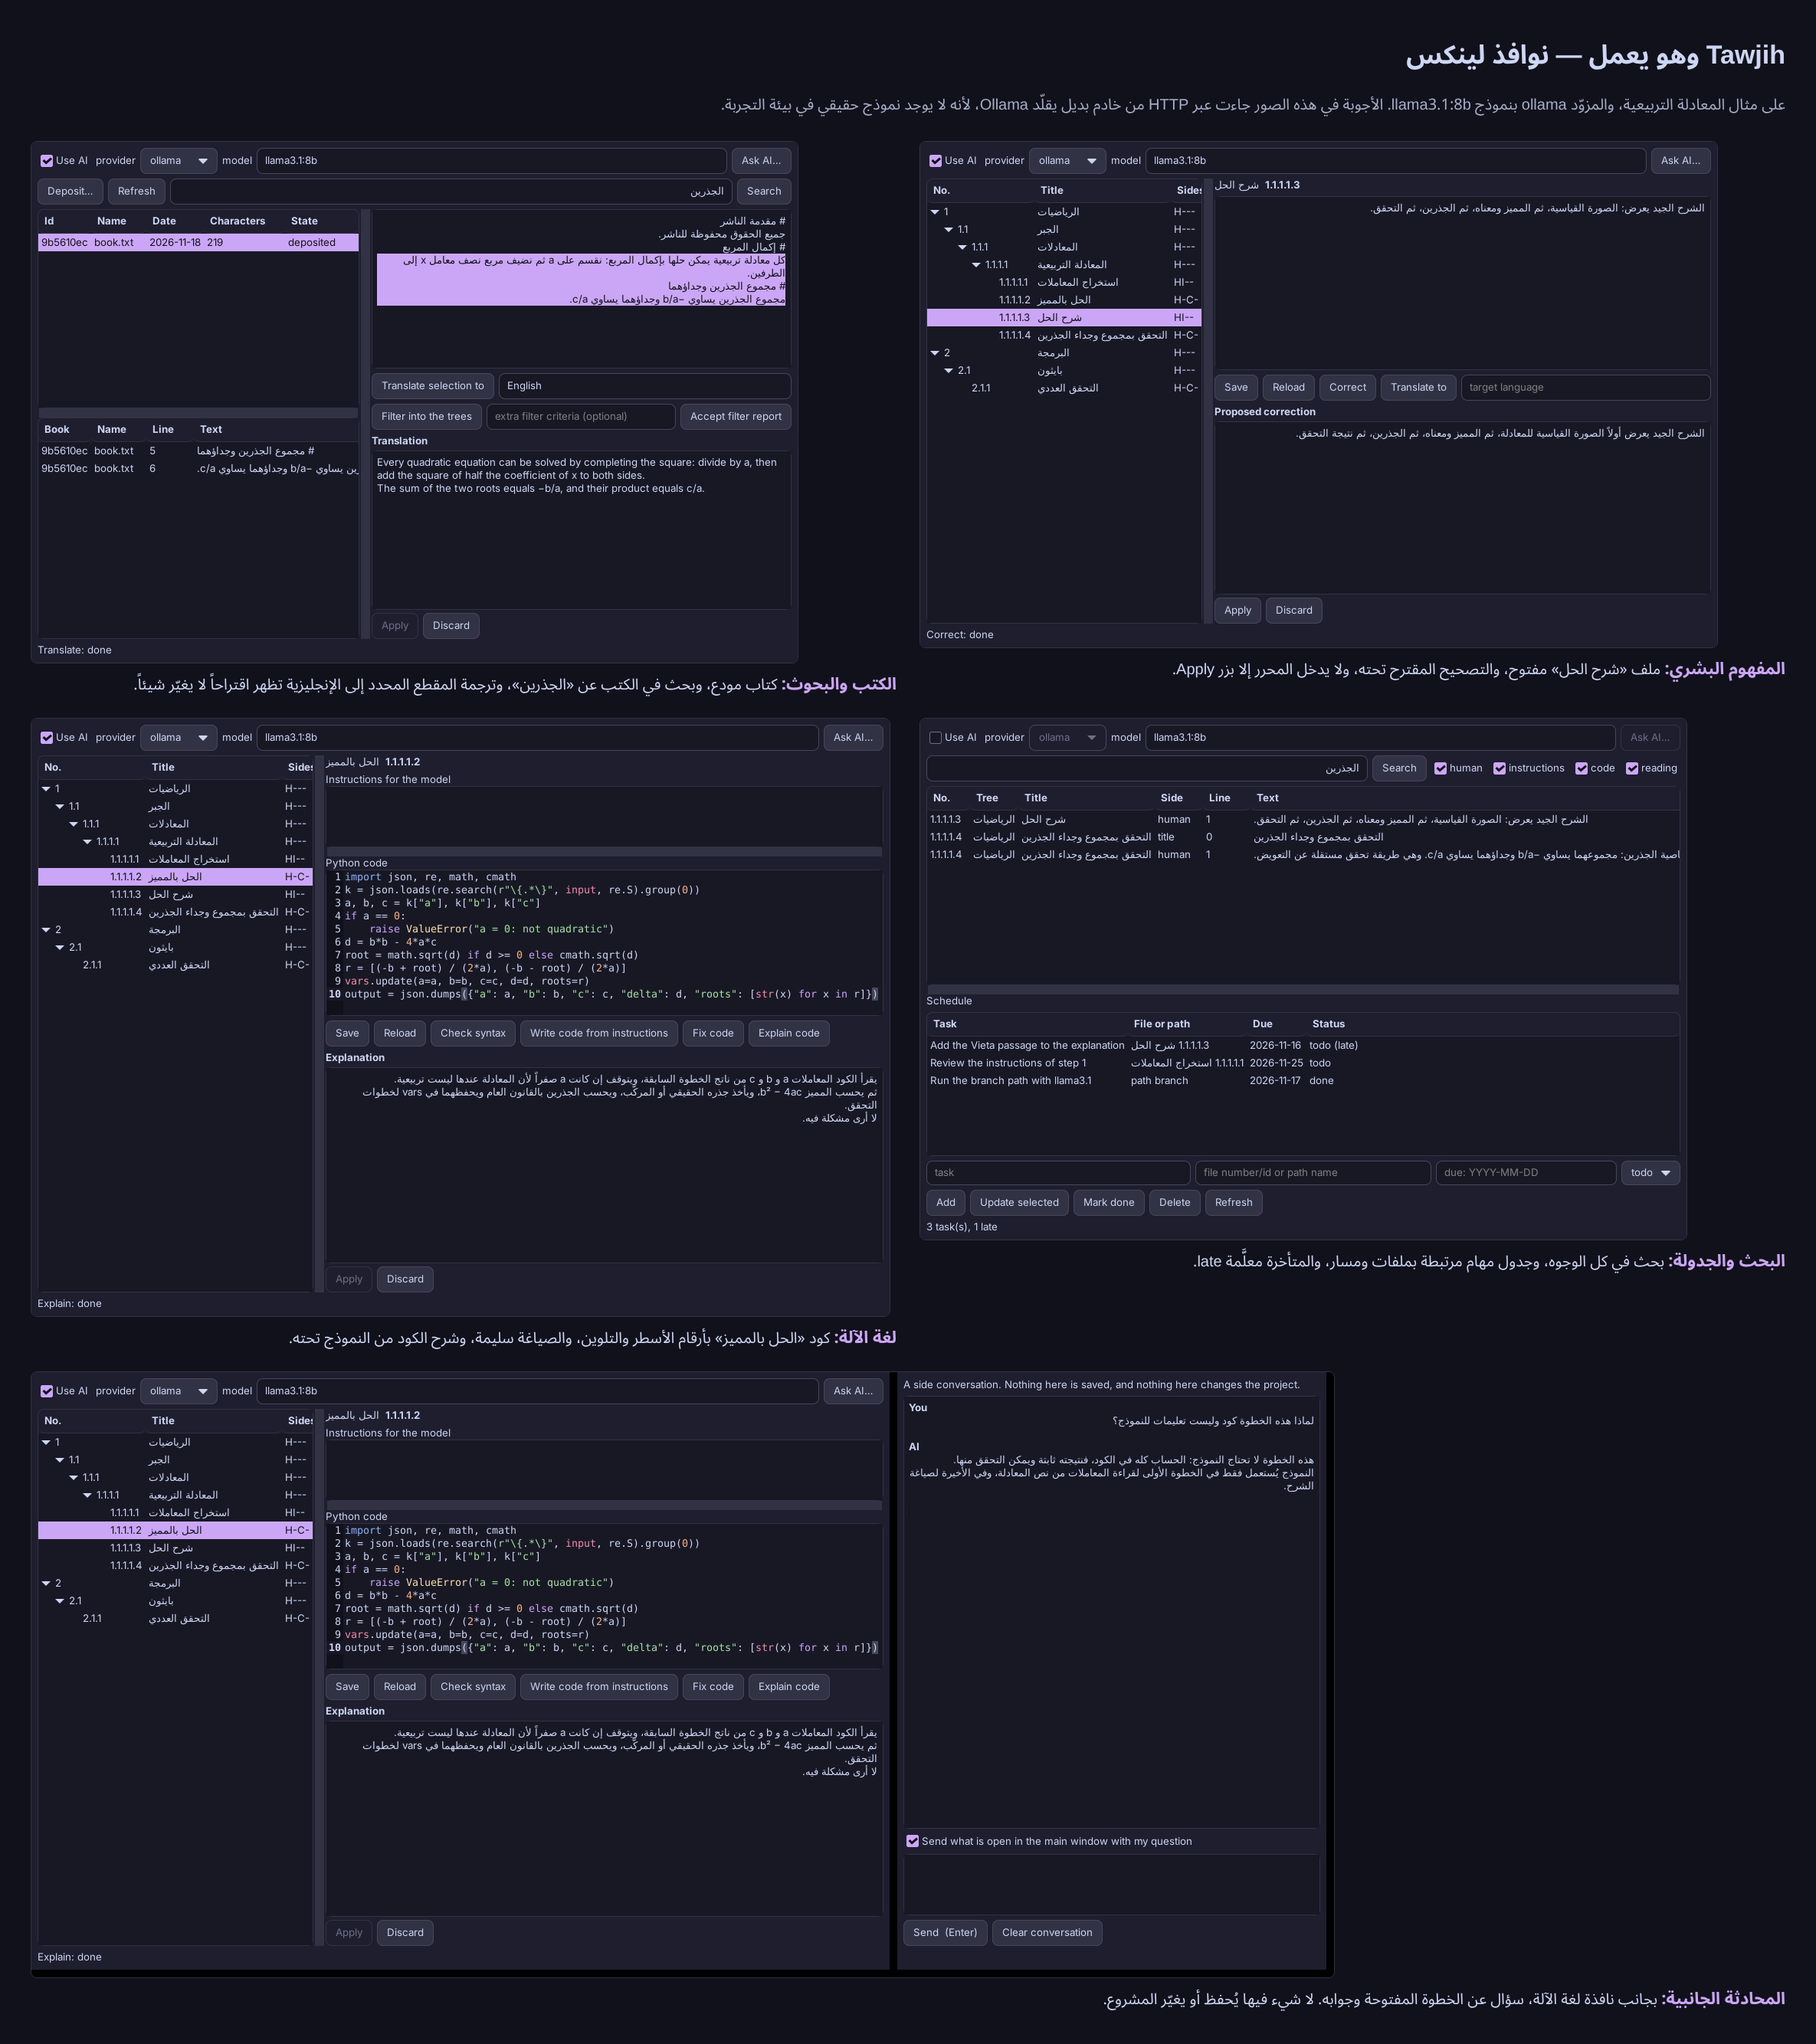
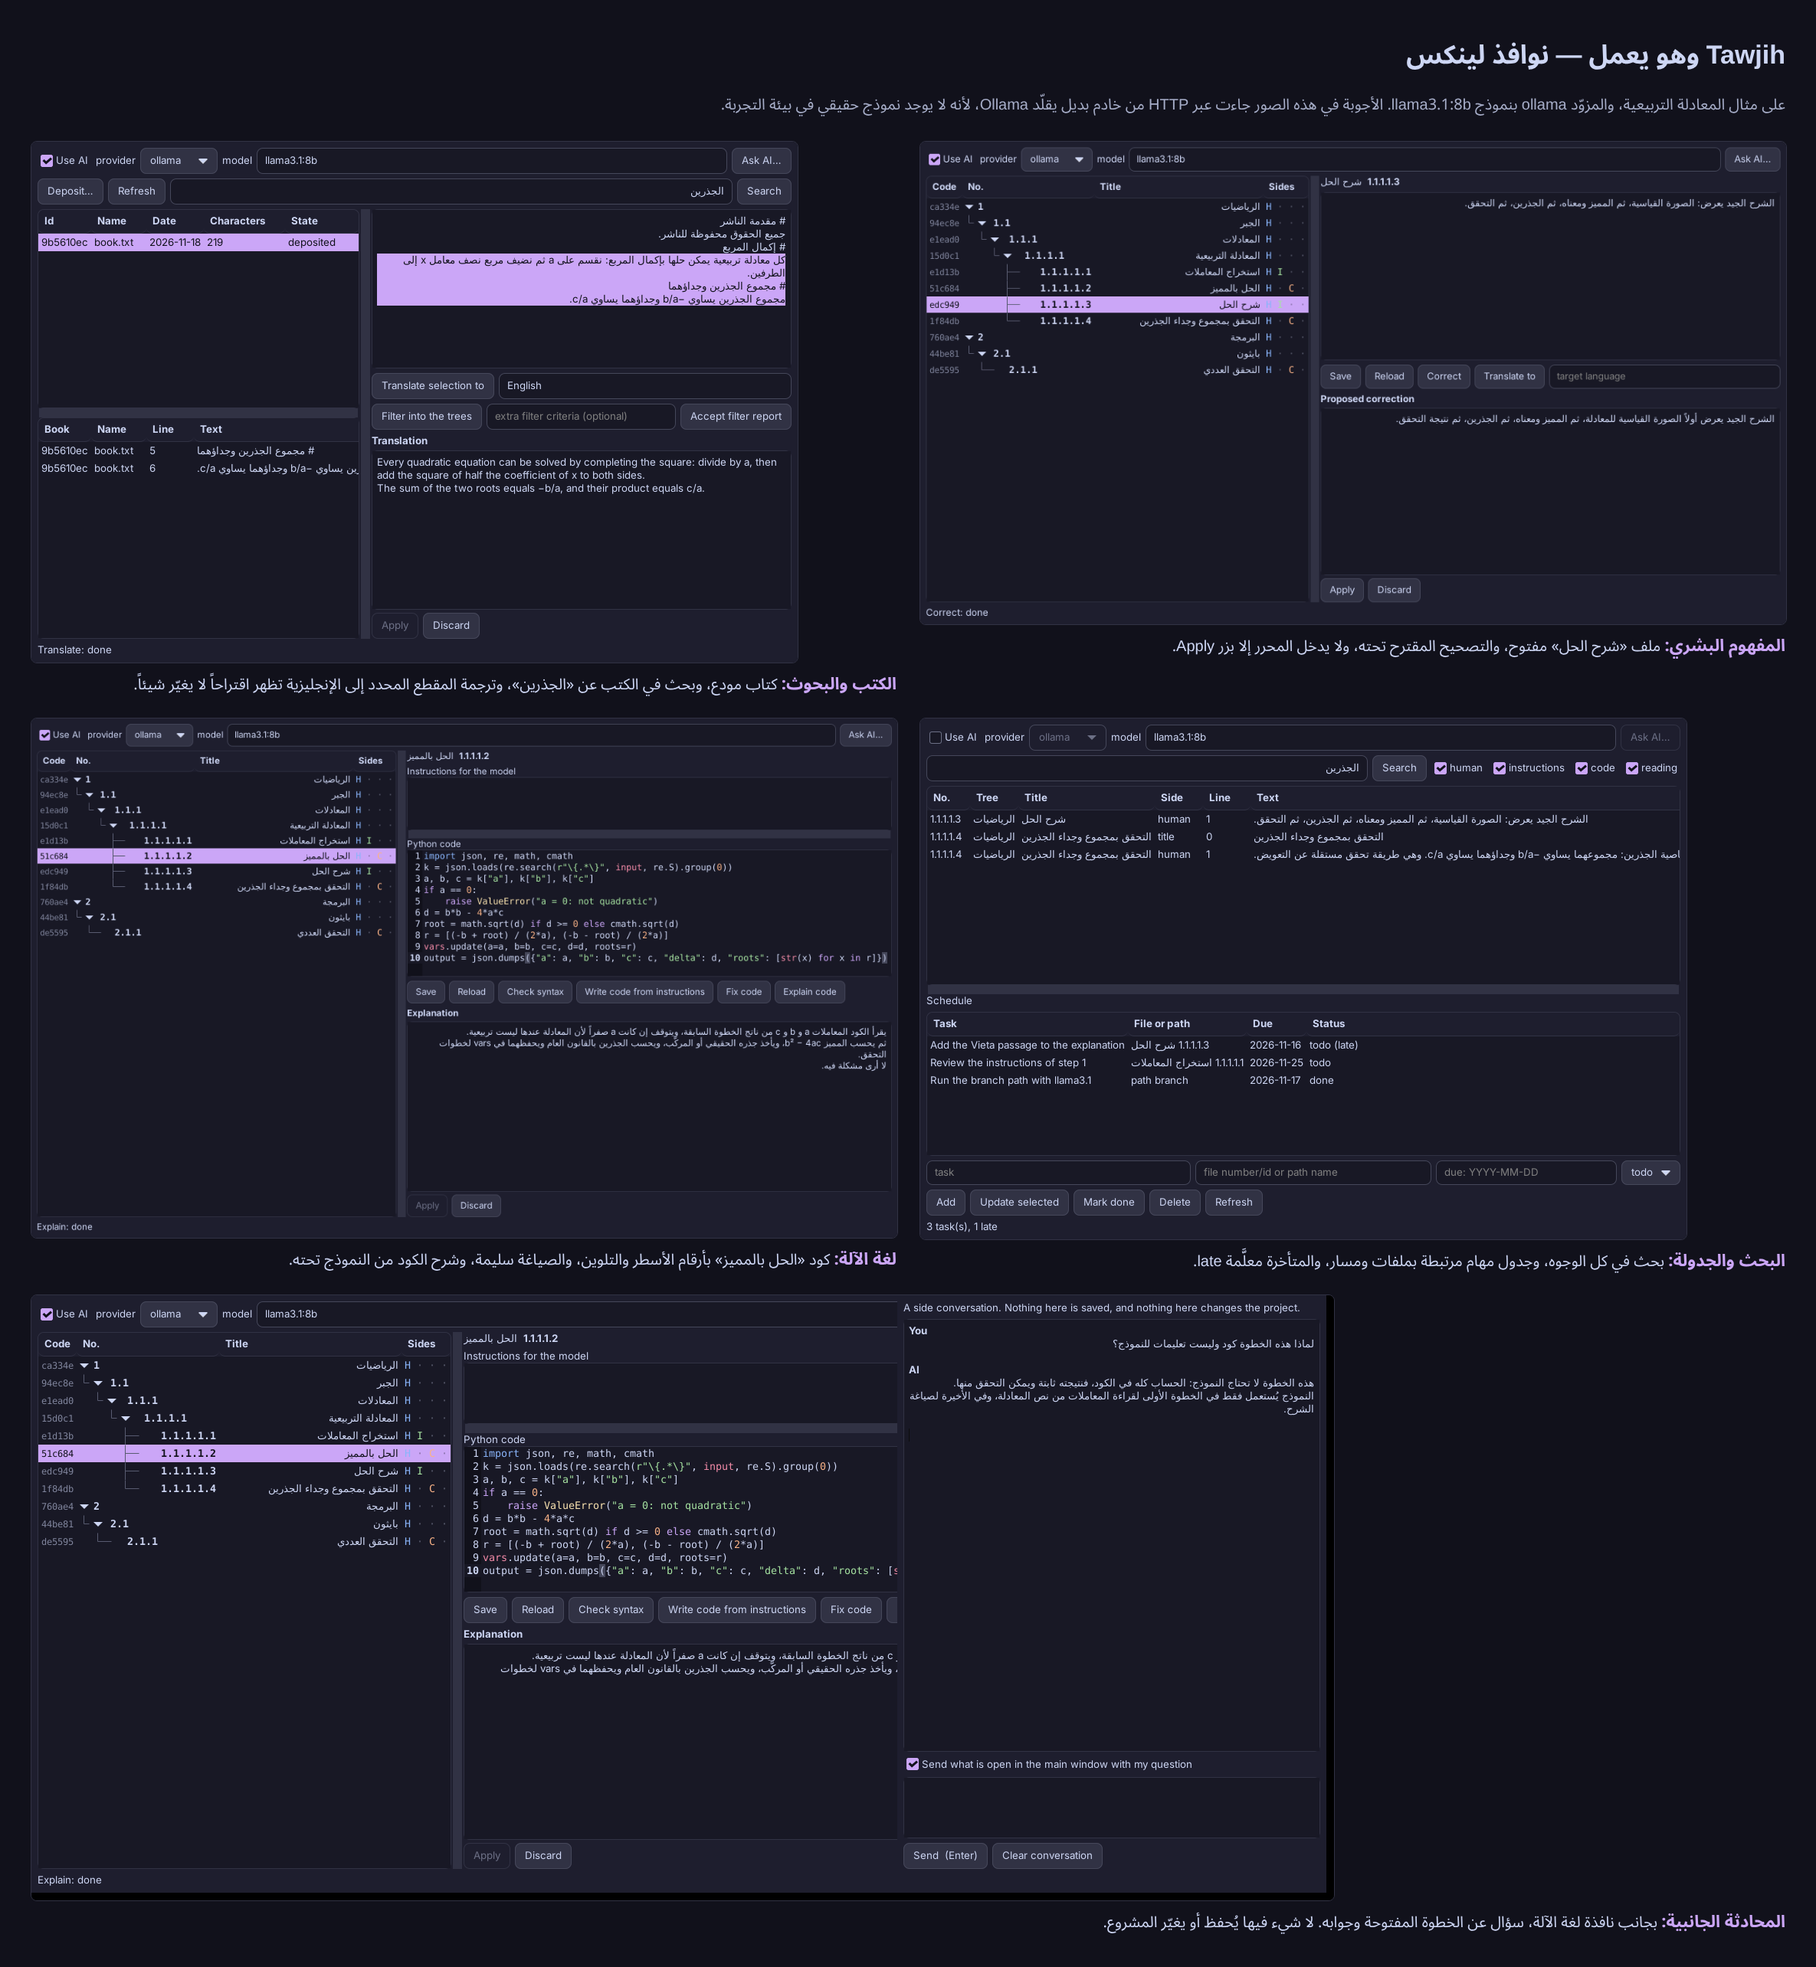
Linux windows: the file list as Code, No. on tree lines, Title, Sides
Replaces the old No./Title/Sides list in the human and machine-language
windows. GTK draws the tree lines itself and colours each side letter; Tk
draws ├─ └─ │ before the number, padded to the font's widths. The windows
and the list are wider so nothing is cut; the README images are retaken.

Claude-Session: https://claude.ai/code/session_01GU5AfFFLJzEcjQ6jTvENeJ

diff --git a/linux/desk_gtk.py b/linux/desk_gtk.py
@@ -21,6 +21,7 @@ from desk_core import (AI_BACKENDS, CHAT_CONTEXT_LIMIT, SIDES,  # noqa: E402
 
 WAITING = "Waiting for another AI request of this program to finish …"
 SCHEME = None          # the code editor's colours, set by apply_theme
+PAL = None             # the theme's colours, set by apply_theme
 
 CSS = """
 window, dialog, .background { background-color: @base; color: @text; }
@@ -76,15 +77,18 @@ menu, .menu, popover, .popover { background-color: @mantle; color: @text;
 menuitem:hover { background-color: @accent; color: @on_accent; }
 tooltip, tooltip * { background-color: @crust; color: @text; }
 progressbar progress { background-color: @accent; }
+treeview.view.files { -GtkTreeView-tree-line-width: 1;
+  -GtkTreeView-tree-line-pattern: ""; border-color: @surface2; }
 """
 
 
 def apply_theme(theme):
     """Dark or light colours for every window, or the desktop's own."""
-    global SCHEME
+    global SCHEME, PAL
     pal = palette(theme)
     if pal is None:
         return
+    PAL = pal
     Gtk.Settings.get_default().set_property(
         "gtk-application-prefer-dark-theme", theme == "dark")
     css = "".join("@define-color %s %s;\n" % kv for kv in pal.items()) + CSS
@@ -512,16 +516,47 @@ class Proposal(Gtk.Box):
 
 
 class FileList(Gtk.TreeView):
-    """The trees of the project; reports the selected file id."""
+    """The trees of the project: each file's code (its stable id), its
+    number on lines joining it to its parent, its title and its sides;
+    reports the selected file id."""
+
+    SIDE_COLORS = {"H": "blue", "I": "green", "C": "peach", "R": "yellow"}
 
     def __init__(self, on_select):
-        self.store = Gtk.TreeStore(str, str, str, str)
+        self.store = Gtk.TreeStore(str, str, str, str, str)
         super().__init__(model=self.store)
-        for i, title in enumerate(("No.", "Title", "Sides")):
-            self.append_column(Gtk.TreeViewColumn(
-                title, Gtk.CellRendererText(), text=i))
+        self.get_style_context().add_class("files")
+        self.set_enable_tree_lines(True)
+        self.set_level_indentation(4)
+        dim = PAL["overlay1"] if PAL else "gray"
+        code = Gtk.CellRendererText(family="Monospace", foreground=dim,
+                                    scale=0.9)
+        num = Gtk.CellRendererText(family="Monospace", weight=600)
+        title = Gtk.CellRendererText(xalign=1.0)
+        sides = Gtk.CellRendererText(family="Monospace")
+        cols = [Gtk.TreeViewColumn("Code", code, text=0),
+                Gtk.TreeViewColumn("No.", num, text=1),
+                Gtk.TreeViewColumn("Title", title, text=2),
+                Gtk.TreeViewColumn("Sides", sides, markup=3)]
+        cols[2].set_expand(True)
+        for c in cols:
+            c.set_resizable(True)
+            self.append_column(c)
+        self.set_expander_column(cols[1])
         self._filling, self._on_select = False, on_select
         self.get_selection().connect("changed", self._changed)
+
+    def _sides(self, flags):
+        out = []
+        for c in flags:
+            if c == "-":
+                out.append('<span alpha="35%">·</span>')
+            elif PAL:
+                out.append('<span foreground="%s">%s</span>'
+                           % (PAL[self.SIDE_COLORS[c]], c))
+            else:
+                out.append(c)
+        return " ".join(out)
 
     def fill(self, rows, keep=None):
         self._filling = True
@@ -530,7 +565,8 @@ class FileList(Gtk.TreeView):
         for r in rows:
             iters[r["id"]] = self.store.append(
                 iters.get(r["parent"]),
-                [r["number"], r["title"], r["flags"], r["id"]])
+                [r["id"], r["number"], r["title"], self._sides(r["flags"]),
+                 r["id"]])
         self.expand_all()
         if keep in iters:
             self.get_selection().select_iter(iters[keep])
@@ -538,7 +574,7 @@ class FileList(Gtk.TreeView):
 
     def select(self, nid):
         def visit(model, path, it):
-            if model[it][3] == nid:
+            if model[it][4] == nid:
                 self.get_selection().select_iter(it)
                 return True
             return False
@@ -551,7 +587,7 @@ class FileList(Gtk.TreeView):
             return
         model, it = selection.get_selected()
         if it is not None:
-            self._on_select(model[it][3])
+            self._on_select(model[it][4])
 
 
 # ------------------------------------------------------- window 1: library
@@ -719,7 +755,7 @@ class EditorWindow(DeskWindow):
         paned = Gtk.Paned()
         paned.pack1(scrolled(self.files), False, False)
         paned.pack2(self.right, True, False)
-        paned.set_position(360)
+        paned.set_position(540)
         self.box.pack_start(paned, True, True, 0)
         self.refresh()
 
@@ -800,7 +836,7 @@ class EditorWindow(DeskWindow):
 
 
 class HumanWindow(EditorWindow):
-    TITLE, SIZE, EDIT_SIDES = "Human concept", (1040, 660), ("human",)
+    TITLE, SIZE, EDIT_SIDES = "Human concept", (1220, 680), ("human",)
 
     def build_editors(self):
         self.editors["human"] = text_view()
@@ -829,7 +865,7 @@ class HumanWindow(EditorWindow):
 
 
 class CodeWindow(EditorWindow):
-    TITLE, SIZE = "Machine language", (1120, 780)
+    TITLE, SIZE = "Machine language", (1300, 780)
     EDIT_SIDES = ("instructions", "code")
 
     def build_editors(self):

diff --git a/linux/desk_tk.py b/linux/desk_tk.py
@@ -542,16 +542,22 @@ class Proposal(ttk.Frame):
 
 
 class FileList(ttk.Frame):
+    """The trees of the project: each file's code (its stable id), its
+    number on lines joining it to its parent, its title and its sides."""
+
     def __init__(self, parent, on_select):
         super().__init__(parent)
-        self.tree = ttk.Treeview(self, columns=("title", "sides"),
-                                 selectmode="browse", height=12)
-        self.tree.heading("#0", text="No.")
-        self.tree.heading("title", text="Title")
-        self.tree.heading("sides", text="Sides")
-        self.tree.column("#0", width=120)
-        self.tree.column("title", width=170)
-        self.tree.column("sides", width=50)
+        cols = ("code", "no", "title", "sides")
+        self.tree = ttk.Treeview(self, columns=cols, show="headings",
+                                 selectmode="browse", height=12,
+                                 style="Files.Treeview")
+        for c, head, width, anchor in (("code", "Code", 70, "w"),
+                                       ("no", "No.", 180, "w"),
+                                       ("title", "Title", 200, "e"),
+                                       ("sides", "Sides", 80, "center")):
+            self.tree.heading(c, text=head, anchor="w")
+            self.tree.column(c, width=width, anchor=anchor,
+                             stretch=c == "title")
         sb = ttk.Scrollbar(self, command=self.tree.yview)
         self.tree.configure(yscrollcommand=sb.set)
         sb.pack(side="right", fill="y")
@@ -559,12 +565,52 @@ class FileList(ttk.Frame):
         self._filling, self._on_select = False, on_select
         self.tree.bind("<<TreeviewSelect>>", self._changed)
 
+    def _pads(self):
+        """'│' and blank pieces as wide as '├─ ' in the tree's font."""
+        import tkinter.font as tkfont
+        try:
+            f = tkfont.nametofont(ttk.Style(self).lookup("Treeview", "font")
+                                  or "TkDefaultFont")
+        except tk.TclError:
+            f = tkfont.nametofont("TkDefaultFont")
+        unit = f.measure("├─ ")
+
+        def fill(start):
+            while f.measure(start + " ") <= unit:
+                start += " "
+            return start
+        return fill("│"), fill("")
+
+    def branches(self, rows):
+        """Each row's number drawn on lines: ├─ └─ │ and ▾ for a parent."""
+        bar, blank = self._pads()
+        kids = {}
+        for r in rows:
+            kids.setdefault(r["parent"] or "", []).append(r["id"])
+        last = {i: k[-1] == i for k in kids.values() for i in k}
+        parent = {r["id"]: r["parent"] or "" for r in rows}
+        out = {}
+        for r in rows:
+            chain, p = [], parent[r["id"]]
+            while p:
+                chain.insert(0, p)
+                p = parent.get(p, "")
+            pre = "".join(blank if last[a] else bar for a in chain[1:])
+            if chain:
+                pre += "└─ " if last[r["id"]] else "├─ "
+            mark = "▾ " if r["id"] in kids else "• "
+            out[r["id"]] = pre + mark + r["number"]
+        return out
+
     def fill(self, rows, keep=None):
         self._filling = True
         self.tree.delete(*self.tree.get_children(""))
+        drawn = self.branches(rows)
         for r in rows:
-            self.tree.insert(r["parent"], "end", iid=r["id"], open=True,
-                             text=r["number"], values=(r["title"], r["flags"]))
+            sides = " ".join(c if c != "-" else "·" for c in r["flags"])
+            self.tree.insert("", "end", iid=r["id"],
+                             values=(r["id"], drawn[r["id"]], r["title"],
+                                     sides))
         if keep and self.tree.exists(keep):
             self.tree.selection_set(keep)
         self.update_idletasks()
@@ -574,6 +620,7 @@ class FileList(ttk.Frame):
         self._filling = True
         if nid and self.tree.exists(nid):
             self.tree.selection_set(nid)
+            self.tree.see(nid)
         self.update_idletasks()
         self._filling = False
 
@@ -735,8 +782,14 @@ class EditorWindow(DeskWindow):
         self.heading.pack(anchor="w")
         self.build_editors()
         self.proposal = Proposal(self.right)
-        panes.add(self.files, weight=1)
+        panes.add(self.files, weight=2)
         panes.add(self.right, weight=3)
+
+        def place_sash(event):      # once the window has its size
+            if event.width > 700:
+                panes.sashpos(0, min(560, event.width // 2))
+                panes.unbind("<Configure>")
+        panes.bind("<Configure>", place_sash)
         self.refresh()
 
     def build_editors(self):
@@ -813,7 +866,7 @@ class EditorWindow(DeskWindow):
 
 
 class HumanWindow(EditorWindow):
-    TITLE, SIZE, EDIT_SIDES = "Human concept", "980x640", ("human",)
+    TITLE, SIZE, EDIT_SIDES = "Human concept", "1220x680", ("human",)
 
     def build_editors(self):
         f, self.editors["human"] = text_box(self.right, height=6)
@@ -843,7 +896,7 @@ class HumanWindow(EditorWindow):
 
 
 class CodeWindow(EditorWindow):
-    TITLE, SIZE = "Machine language", "1120x780"
+    TITLE, SIZE = "Machine language", "1300x780"
     EDIT_SIDES = ("instructions", "code")
 
     def build_editors(self):

diff --git a/linux/README.md b/linux/README.md
@@ -30,6 +30,13 @@ Latte, MIT licence). Nothing is installed for them: GTK gets a style sheet
 and a GtkSourceView colour scheme, Tkinter a ttk style. `--theme system`
 keeps the desktop's own look, as before.
 
+The list of files in the human and machine-language windows has four
+columns: **Code** (the file's stable id), **No.** (its number, on lines
+joining it to its parent: ▾ marks a file with files under it), **Title**
+(right-aligned for Arabic), and **Sides** (H human, I instructions, C code,
+R reading; a dot for an empty side, each letter in its own colour in GTK).
+In Tkinter the lines are drawn with ├─ └─ │, and the tree cannot be folded.
+
 ## Toolkits
 
 Two front ends give the same four windows. GTK is used when it is available,
